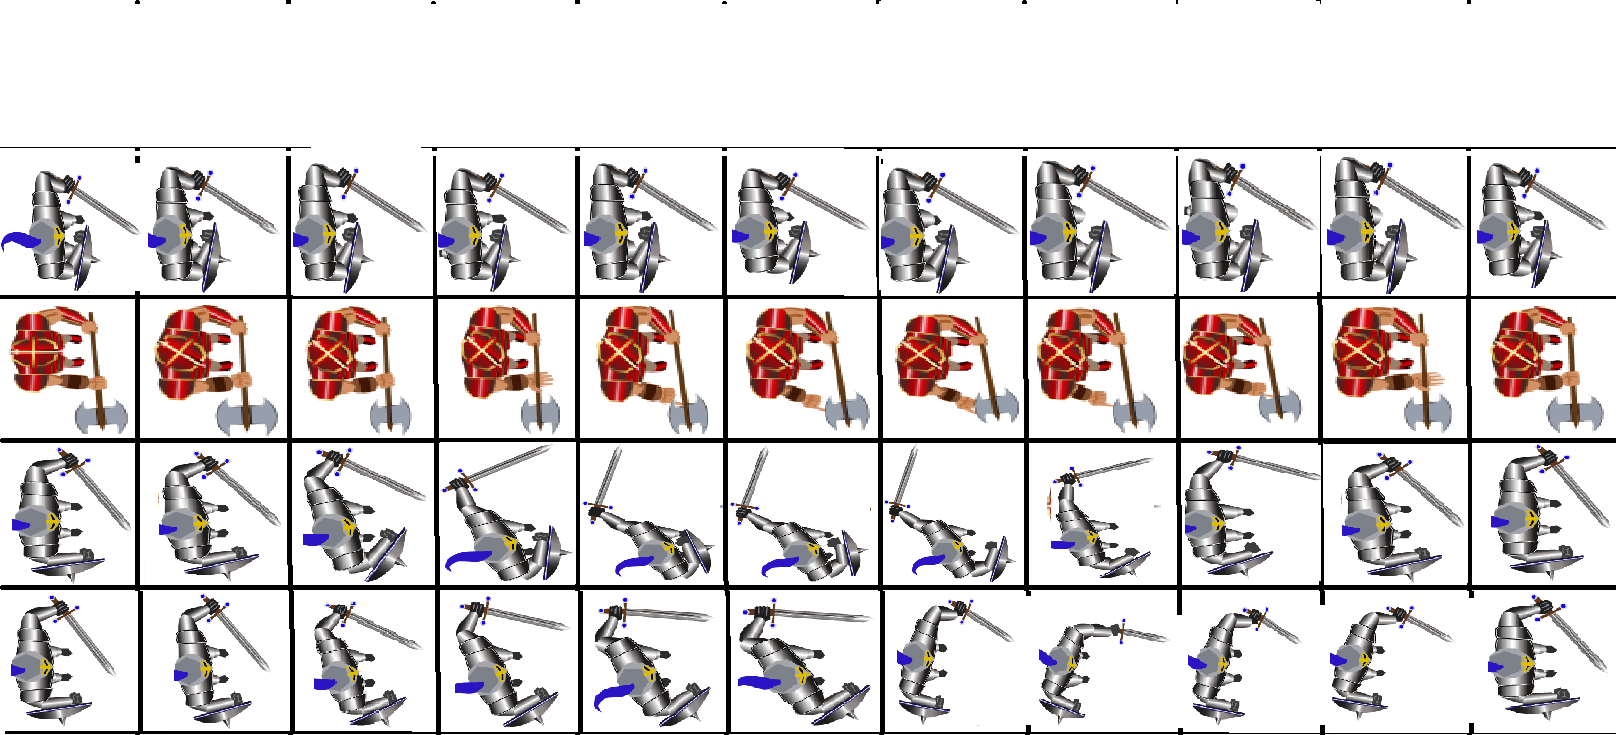
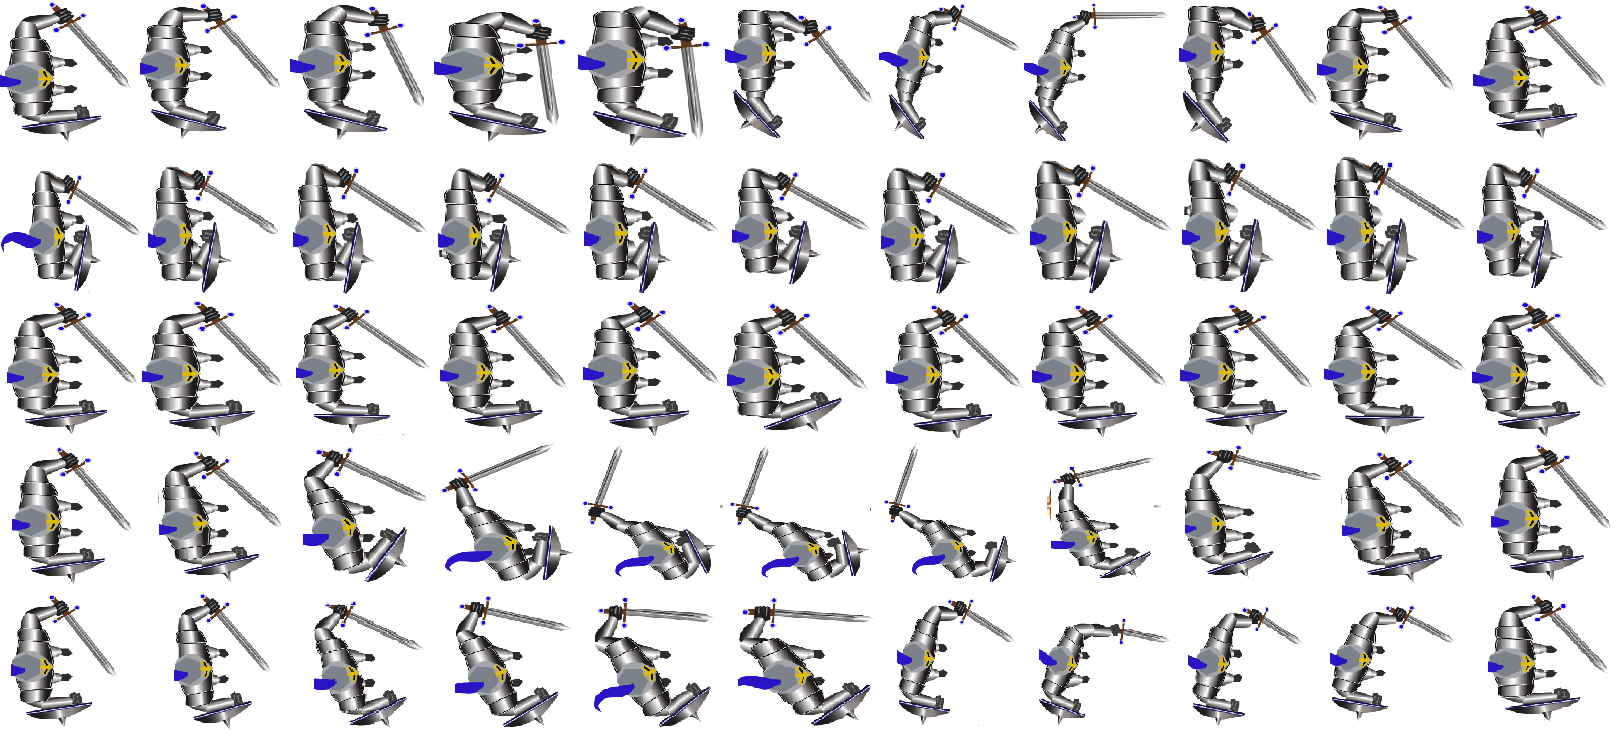
Fixed menus and animations

diff --git a/ArgoProject/CreditsState.cpp b/ArgoProject/CreditsState.cpp
@@ -14,7 +14,8 @@ void CreditsState::update()
 }
 void CreditsState::render()
 {
-	for (int i = 0; i < 10; i++)
+	SDL_RenderCopy(Render::Instance()->getRenderer(), m_exitOptionTexture, NULL, m_exitOption);
+	for (int i = 0; i < 12; i++)
 	{
 		m_text[i]->render();
 	}
@@ -27,19 +28,39 @@ void CreditsState::processEvents(bool& isRunning)
 	{
 		switch (event.type)
 		{
-		case SDL_KEYDOWN:
-			m_stateMachine->changeState(new MenuState(m_cameraDimensions, m_stateMachine));
+		case SDL_QUIT:
+			isRunning = false;
+			break;
+		case SDL_MOUSEBUTTONDOWN:
+			if (event.button.x > m_exitOption->x && event.button.x <m_exitOption->x + m_exitOption->w
+				&&
+				event.button.y > m_exitOption->y && event.button.y < m_exitOption->y + m_exitOption->h)
+			{
+				m_stateMachine->changeState(new MenuState(m_cameraDimensions, m_stateMachine));
+			}
+			break;
 		}
 	}
 }
 bool CreditsState::onEnter()
 {
+	m_exitOption = new SDL_Rect();
+	m_exitOption->x = m_cameraDimensions.x * (2.5 / 6.0);
+	m_exitOption->y = m_cameraDimensions.y * 0.9;
+	m_exitOption->w = m_cameraDimensions.x * (1.0 / 6.0);
+	m_exitOption->h = m_cameraDimensions.y * 0.1;
+
+	SDL_Surface* Surface = IMG_Load("Assets/ReturnButton.png");
+	m_exitOptionTexture = SDL_CreateTextureFromSurface(Render::Instance()->getRenderer(), Surface);
+
+	SDL_FreeSurface(Surface);
+
 	if (TTF_Init() == -1)
 	{
 		printf("SDL_ttf could not initialize! SDL_ttf Error: %s\n", TTF_GetError());
 	}
 
-	Abel = TTF_OpenFont("Assets/Font/CopperPlateGothicBold.ttf", m_cameraDimensions.y / 10);
+	Abel = TTF_OpenFont("Assets/Font/CopperPlateGothicBold.ttf", m_cameraDimensions.y / 15);
 
 	if (!Abel) {
 		printf("TTF_OpenFont: %s\n", TTF_GetError());
@@ -47,11 +68,11 @@ bool CreditsState::onEnter()
 	}
 
 	m_names[0] = "Developers";
-	m_names[1] = "Alex O'Toole";
-	m_names[2] = "Aoife Powders";
-	m_names[3] = "Brandon Seah-Dempsey";
+	m_names[1] = "Aoife Powders";
+	m_names[2] = "Alex O'Toole";
+	m_names[3] = "Brian O'Neill";
 	m_names[4] = "Paul Nolan";
-	m_names[5] = "Brian O'Neill";
+	m_names[5] = "Brandon Seah-Dempsey";
 	m_names[6] = "Designers";
 	m_names[7] = "Niall Cullen";
 	m_names[8] = "Person 4";
@@ -64,21 +85,22 @@ bool CreditsState::onEnter()
 
 	for (int i = 0; i < 6; i++)
 	{
-		m_text[i] = new Text(Abel, m_names[i], m_cameraDimensions.x * 0.05, m_cameraDimensions.y * (i * 0.1) + 0.05);
+		m_text[i] = new Text(Abel, m_names[i], m_cameraDimensions.x * 0.05, m_cameraDimensions.y * (i * 0.1) + 100);
 	}
 	for (int i = 6; i < 12; i++)
 	{
-		m_text[i] = new Text(Abel, m_names[i], m_cameraDimensions.x * 0.6, m_cameraDimensions.y * ((i - 6) * 0.1) + 0.05);
+		m_text[i] = new Text(Abel, m_names[i], m_cameraDimensions.x * 0.6, m_cameraDimensions.y * ((i - 6) * 0.1) + 100);
 	}
 
 	return true;
 }
 bool CreditsState::onExit()
 {
-	std::fill_n(m_names, 10, 0);
+	SDL_DestroyTexture(m_exitOptionTexture);
+	std::fill_n(m_names, 12, 0);
 	m_stateMachine = nullptr;
 
-	for (int i = 0; i < 10; i++)
+	for (int i = 0; i < 12; i++)
 	{
 		m_text[i] = nullptr;
 	}

diff --git a/ArgoProject/HighScoreState.cpp b/ArgoProject/HighScoreState.cpp
@@ -14,6 +14,7 @@ void HighScoreState::update()
 }
 void HighScoreState::render()
 {
+	SDL_RenderCopy(Render::Instance()->getRenderer(), m_exitOptionTexture, NULL, m_exitOption);
 	for (int i = 0; i < 10; i++)
 	{
 		if(m_score[i] > 0)
@@ -32,8 +33,14 @@ void HighScoreState::processEvents(bool& isRunning)
 	{
 		switch (event.type)
 		{
-		case SDL_KEYDOWN:
-			m_stateMachine->changeState(new MenuState(m_cameraDimensions, m_stateMachine));
+		case SDL_MOUSEBUTTONDOWN:
+			if (event.button.x > m_exitOption->x && event.button.x <m_exitOption->x + m_exitOption->w
+				&&
+				event.button.y > m_exitOption->y && event.button.y < m_exitOption->y + m_exitOption->h)
+			{
+				m_stateMachine->changeState(new MenuState(m_cameraDimensions, m_stateMachine));
+			}
+			break;
 		}
 	}
 }
@@ -97,17 +104,27 @@ bool HighScoreState::onEnter()
 		m_slotRect[i]->h = m_cameraDimensions.y * 0.1 - 10;
 	}
 	SDL_FreeSurface(surfaceSlot);
+
+	m_exitOption = new SDL_Rect();
+	m_exitOption->x = m_cameraDimensions.x * (2.5 / 6.0);
+	m_exitOption->y = m_cameraDimensions.y * 0.9;
+	m_exitOption->w = m_cameraDimensions.x * (1.0 / 6.0);
+	m_exitOption->h = m_cameraDimensions.y * 0.1;
+
+	SDL_Surface* Surface = IMG_Load("Assets/ReturnButton.png");
+	m_exitOptionTexture = SDL_CreateTextureFromSurface(Render::Instance()->getRenderer(), Surface);
+
+	SDL_FreeSurface(Surface);
 	return true;
 }
 bool HighScoreState::onExit()
 {
 	std::fill_n(m_names, 10, 0);
-	//std::fill_n(m_nameRects, 10, 0);
-	//std::fill_n(m_nameTextures, 10, 0);
+
 	m_stateMachine = nullptr;
 
 	SDL_DestroyTexture(m_slotTexture);
-
+	SDL_DestroyTexture(m_exitOptionTexture);
 
 	for (int i = 0; i < 10; i++)
 	{

diff --git a/ArgoProject/MenuState.cpp b/ArgoProject/MenuState.cpp
@@ -116,7 +116,7 @@ bool MenuState::onEnter()
 	m_singlePlayerButton = new SDL_Rect();
 	m_singlePlayerButton->x = m_buttonDimensions.x * 0.02;
 	m_singlePlayerButton->y = m_buttonDimensions.y * 0.495;
-	m_singlePlayerButton->w = m_buttonDimensions.x * 0.2;
+	m_singlePlayerButton->w = m_buttonDimensions.x * 0.3;
 	m_singlePlayerButton->h = m_buttonDimensions.y * 0.06;
 
 
@@ -126,7 +126,7 @@ bool MenuState::onEnter()
 	m_multiPlayerButton = new SDL_Rect();
 	m_multiPlayerButton->x = m_buttonDimensions.x * 0.02;
 	m_multiPlayerButton->y = m_buttonDimensions.y * 0.595;
-	m_multiPlayerButton->w = m_buttonDimensions.x * 0.2;
+	m_multiPlayerButton->w = m_buttonDimensions.x * 0.3;
 	m_multiPlayerButton->h = m_buttonDimensions.y * 0.06;
 
 	menuSurface = IMG_Load("Assets/Button.png");
@@ -135,7 +135,7 @@ bool MenuState::onEnter()
 	m_optionsButton = new SDL_Rect();
 	m_optionsButton->x = m_buttonDimensions.x * 0.02;
 	m_optionsButton->y = m_buttonDimensions.y * 0.695;
-	m_optionsButton->w = m_buttonDimensions.x * 0.2;
+	m_optionsButton->w = m_buttonDimensions.x * 0.3;
 	m_optionsButton->h = m_buttonDimensions.y * 0.06;
 
 	menuSurface = IMG_Load("Assets/Button.png");
@@ -144,7 +144,7 @@ bool MenuState::onEnter()
 	m_creditsButton = new SDL_Rect();
 	m_creditsButton->x = m_buttonDimensions.x * 0.02;
 	m_creditsButton->y = m_buttonDimensions.y * 0.795;
-	m_creditsButton->w = m_buttonDimensions.x * 0.2;
+	m_creditsButton->w = m_buttonDimensions.x * 0.3;
 	m_creditsButton->h = m_buttonDimensions.y * 0.06;
 
 	menuSurface = IMG_Load("Assets/Button.png");

diff --git a/ArgoProject/PlayState.cpp b/ArgoProject/PlayState.cpp
@@ -484,7 +484,7 @@ void PlayState::MenuInit()
 	m_playOption->w = m_cameraDimensions.x * 0.5;
 	m_playOption->h = m_cameraDimensions.y * 0.3;
 
-	playStateSurface = IMG_Load("Assets/Button.png");
+	playStateSurface = IMG_Load("Assets/ResumeButton.png");
 	m_playOptionTexture = SDL_CreateTextureFromSurface(Render::Instance()->getRenderer(), playStateSurface);
 
 	m_exitOption = new SDL_Rect();
@@ -493,7 +493,7 @@ void PlayState::MenuInit()
 	m_exitOption->w = m_cameraDimensions.x * 0.5;
 	m_exitOption->h = m_cameraDimensions.y * 0.3;
 
-	playStateSurface = IMG_Load("Assets/Button.png");
+	playStateSurface = IMG_Load("Assets/QuitButton.png");
 	m_exitOptionTexture = SDL_CreateTextureFromSurface(Render::Instance()->getRenderer(), playStateSurface);
 
 

diff --git a/ArgoProject/CharacterSelectState.cpp b/ArgoProject/CharacterSelectState.cpp
@@ -135,7 +135,7 @@ bool CharacterSelectState::onEnter()
 	m_exitOption->w = m_cameraDimensions.x * (1.0 / 6.0);
 	m_exitOption->h = m_cameraDimensions.y * 0.1;
 
-	characterSelectSurface = IMG_Load("Assets/Button.png");
+	characterSelectSurface = IMG_Load("Assets/ReturnButton.png");
 	m_exitOptionTexture = SDL_CreateTextureFromSurface(Render::Instance()->getRenderer(), characterSelectSurface);
 
 	SDL_FreeSurface(characterSelectSurface);

diff --git a/ArgoProject/HostSearchState.cpp b/ArgoProject/HostSearchState.cpp
@@ -125,7 +125,7 @@ bool HostSearchState::onEnter()
 	m_exitRect->w = m_cameraDimensions.x * (1.0 / 6.0);
 	m_exitRect->h = m_cameraDimensions.y * 0.1;
 
-	SDL_Surface* m_exitOptionSurface = IMG_Load("Assets/Button.png");
+	SDL_Surface* m_exitOptionSurface = IMG_Load("Assets/ReturnButton.png");
 	m_exitTexture = SDL_CreateTextureFromSurface(Render::Instance()->getRenderer(), m_exitOptionSurface);
 	SDL_FreeSurface(m_exitOptionSurface);
 

diff --git a/ArgoProject/EnemyBoss.cpp b/ArgoProject/EnemyBoss.cpp
@@ -16,7 +16,7 @@ void EnemyBoss::initialize(RenderSystem* t_rs, Vector2 t_Position, std::string t
 	m_rect->w = 400; m_rect->h = 400;
 
 	//loads texture for enemy
-	SDL_Surface* ecsSurface2 = IMG_Load("Assets/zombie2boss.png");
+	SDL_Surface* ecsSurface2 = IMG_Load("Assets/Skeleton.png");
 	m_texture = SDL_CreateTextureFromSurface(Render::Instance()->getRenderer(), ecsSurface2);
 
 	m_enemy = new Entity();

diff --git a/ArgoProject/Knight.cpp b/ArgoProject/Knight.cpp
@@ -209,14 +209,14 @@ void Knight::setAction()
 			if (m_skillCooldown[0] == false)
 			{
 				setDamage(1);
-				spriteSheetY = 0;
+				spriteSheetY = frameHeight * 3;
 			}
 			break;
 		case 3:
 			if (m_skillCooldown[1] == false)
 			{
 				setDamage(3);
-				spriteSheetY = frameHeight * 3;
+				spriteSheetY = 0;
 				m_skillCooldown[1] = true;
 			}
 			break;

diff --git a/ArgoProject/CreditsState.h b/ArgoProject/CreditsState.h
@@ -29,6 +29,9 @@ private:
 	Text* m_text[12];
 
 	GameStateMachine* m_stateMachine;
+
+	SDL_Rect* m_exitOption;
+	SDL_Texture* m_exitOptionTexture;
 };
 
 #endif

diff --git a/ArgoProject/HighScoreState.h b/ArgoProject/HighScoreState.h
@@ -39,6 +39,9 @@ private:
 	Text* m_text[10];
 
 	GameStateMachine* m_stateMachine;
+
+	SDL_Rect* m_exitOption;
+	SDL_Texture* m_exitOptionTexture;
 };
 
 #endif
